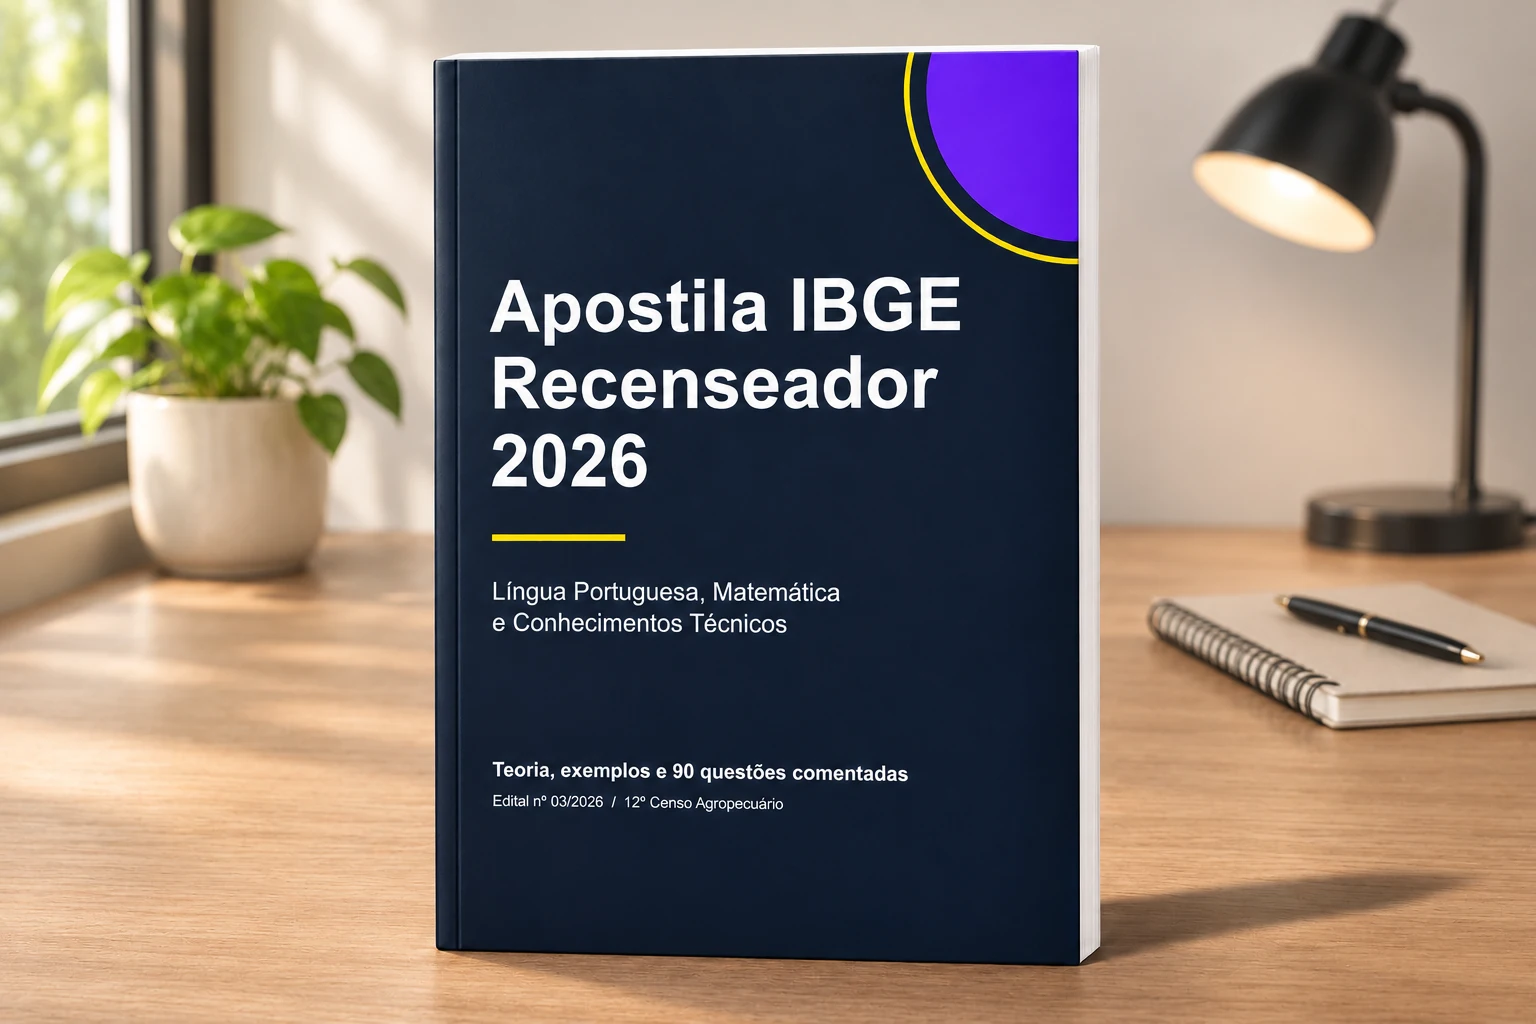
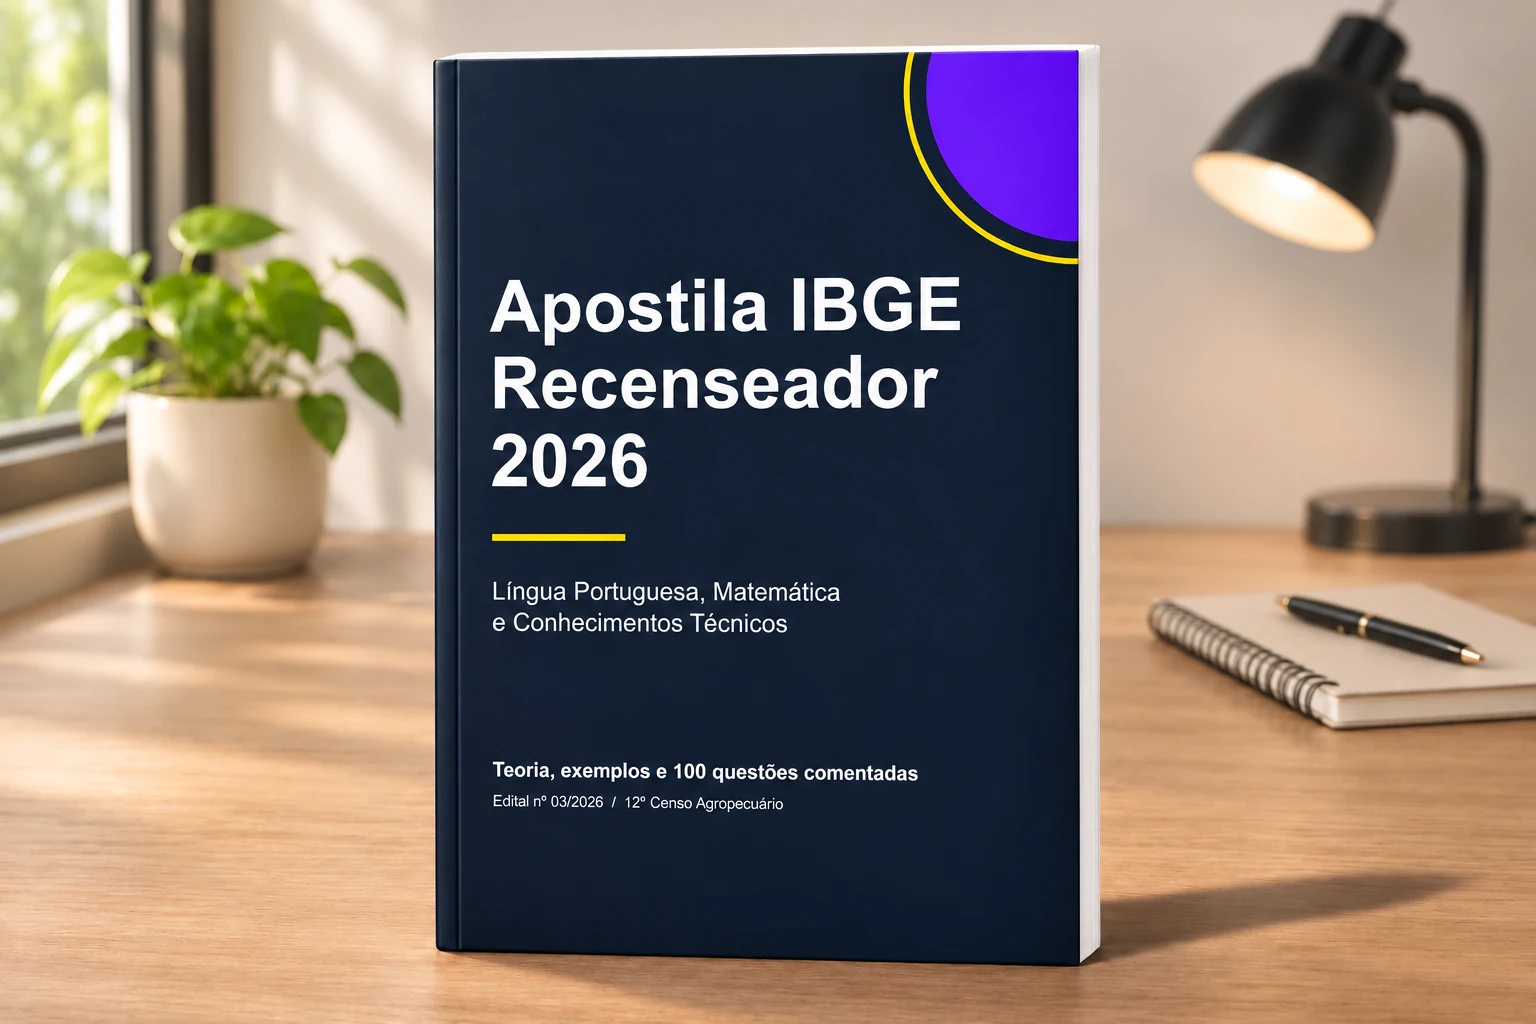
Amplia apostila de Recenseador do IBGE para 100 questões

Changed region(s): [[0.3438, 0.5625, 0.5312, 0.625], [0.375, 0.75, 0.5938, 0.8125]]

diff --git a/src/content/blog/apostila-ibge-recenseador-2026.md b/src/content/blog/apostila-ibge-recenseador-2026.md
@@ -1,10 +1,10 @@
 ---
 title: "Apostila IBGE Recenseador 2026 por R$ 9,90: conteúdo da prova e questões comentadas"
 seoTitle: "Apostila IBGE Recenseador 2026 em PDF por R$ 9,90"
-description: "Veja o que cai na prova de Recenseador do IBGE e conheça a apostila em PDF de R$ 9,90, com teoria, exemplos resolvidos e 90 questões comentadas."
+description: "Veja o que cai na prova de Recenseador do IBGE e conheça a apostila em PDF de R$ 9,90, com teoria, exemplos resolvidos e 100 questões comentadas."
 category: "Concursos"
 date: 2026-11-26T12:00:00-03:00
-updated: 2026-11-26T14:39:00-03:00
+updated: 2026-11-26T14:43:00-03:00
 draft: false
 readingTime: "6 min"
 tags: ["IBGE 2026", "Recenseador", "Cesgranrio", "Apostila"]
@@ -15,7 +15,7 @@ related:
   - como-estudar-para-concurso
 ---
 
-Se você vai fazer a prova de **Recenseador do IBGE**, uma boa forma de começar é entender o programa e testar se consegue aplicar o que leu. A **Apostila IBGE Recenseador 2026**, do Informática para Concurso, reúne **Língua Portuguesa, Matemática e Conhecimentos Técnicos** em um PDF com explicações, exemplos resolvidos e **90 questões autorais com gabarito comentado**.
+Se você vai fazer a prova de **Recenseador do IBGE**, uma boa forma de começar é entender o programa e testar se consegue aplicar o que leu. A **Apostila IBGE Recenseador 2026**, do Informática para Concurso, reúne **Língua Portuguesa, Matemática e Conhecimentos Técnicos** em um PDF com explicações, exemplos resolvidos e **100 questões autorais com gabarito comentado**.
 
 O preço de lançamento do PDF é **R$ 9,90, em pagamento único**. Enquanto a compra online aguarda liberação, confira o conteúdo dos módulos e resolva uma questão da própria apostila.
 
@@ -38,7 +38,7 @@ A parte técnica concentra metade dos pontos. Para se preparar, distribua o temp
 
 ![Capa da Apostila IBGE Recenseador 2026](./images/apostila-ibge-recenseador-capa.webp)
 
-Você recebe um **PDF de 41 páginas**, com sumário clicável, três módulos de teoria, exemplos resolvidos e **18 blocos de cinco questões**. O índice de exercícios leva direto ao assunto escolhido, e o gabarito comenta cada resposta no fim da apostila.
+Você recebe um **PDF de 44 páginas**, com sumário clicável, três módulos de teoria, exemplos resolvidos e **20 blocos de cinco questões**. O índice de exercícios leva direto ao assunto escolhido, e o gabarito comenta cada resposta no fim da apostila.
 
 ### Módulo 1 — Língua Portuguesa
 
@@ -76,7 +76,7 @@ Um estabelecimento ocupa partes dos setores X e Y. A sede, usada para administra
 
 **Gabarito: A.** A sede define o setor de recenseamento neste caso. A maior parte da área só passa a ser o critério de localização quando não há sede.
 
-O PDF inclui **45 questões de Português** (cinco por tópico), **40 de Matemática** (cinco por tópico) e **5 de Conhecimentos Técnicos**. Você pode fazer um bloco por vez e, depois, abrir a correção daquele bloco pelo link da própria página.
+O PDF inclui **45 questões de Português**, **40 de Matemática** e **15 de Conhecimentos Técnicos**. Em Português e Matemática, são cinco questões por tópico. O módulo técnico reúne três blocos sobre o Censo Agropecuário, os instrumentos de campo e as situações especiais de registro. Cada bloco tem um link para o respectivo gabarito comentado.
 
 ## Para quem é esta apostila?
 
@@ -84,7 +84,7 @@ O material foi feito para quem vai disputar a função de **Recenseador do IBGE 
 
 ## Apostila IBGE Recenseador 2026 por R$ 9,90
 
-O **PDF com os três módulos, exemplos resolvidos e 90 questões autorais com gabarito comentado** terá preço de **R$ 9,90, em pagamento único**. Use o índice de exercícios para escolher o que precisa praticar, como concordância, porcentagem ou leitura de mapas.
+O **PDF com os três módulos, exemplos resolvidos e 100 questões autorais com gabarito comentado** terá preço de **R$ 9,90, em pagamento único**. Use o índice de exercícios para escolher o que precisa praticar, como concordância, porcentagem ou leitura de mapas.
 
 **A compra online ainda não está disponível.** O link de compra será disponibilizado nesta página.
 
@@ -96,7 +96,7 @@ O **PDF com os três módulos, exemplos resolvidos e 90 questões autorais com g
 
 ### As questões são de provas anteriores?
 
-As 90 questões foram elaboradas para esta apostila. Todas têm cinco alternativas, uma resposta correta e um comentário que explica o raciocínio.
+As 100 questões foram elaboradas para esta apostila. Todas têm cinco alternativas, uma resposta correta e um comentário que explica o raciocínio.
 
 ### É possível estudar pelo celular?
 
